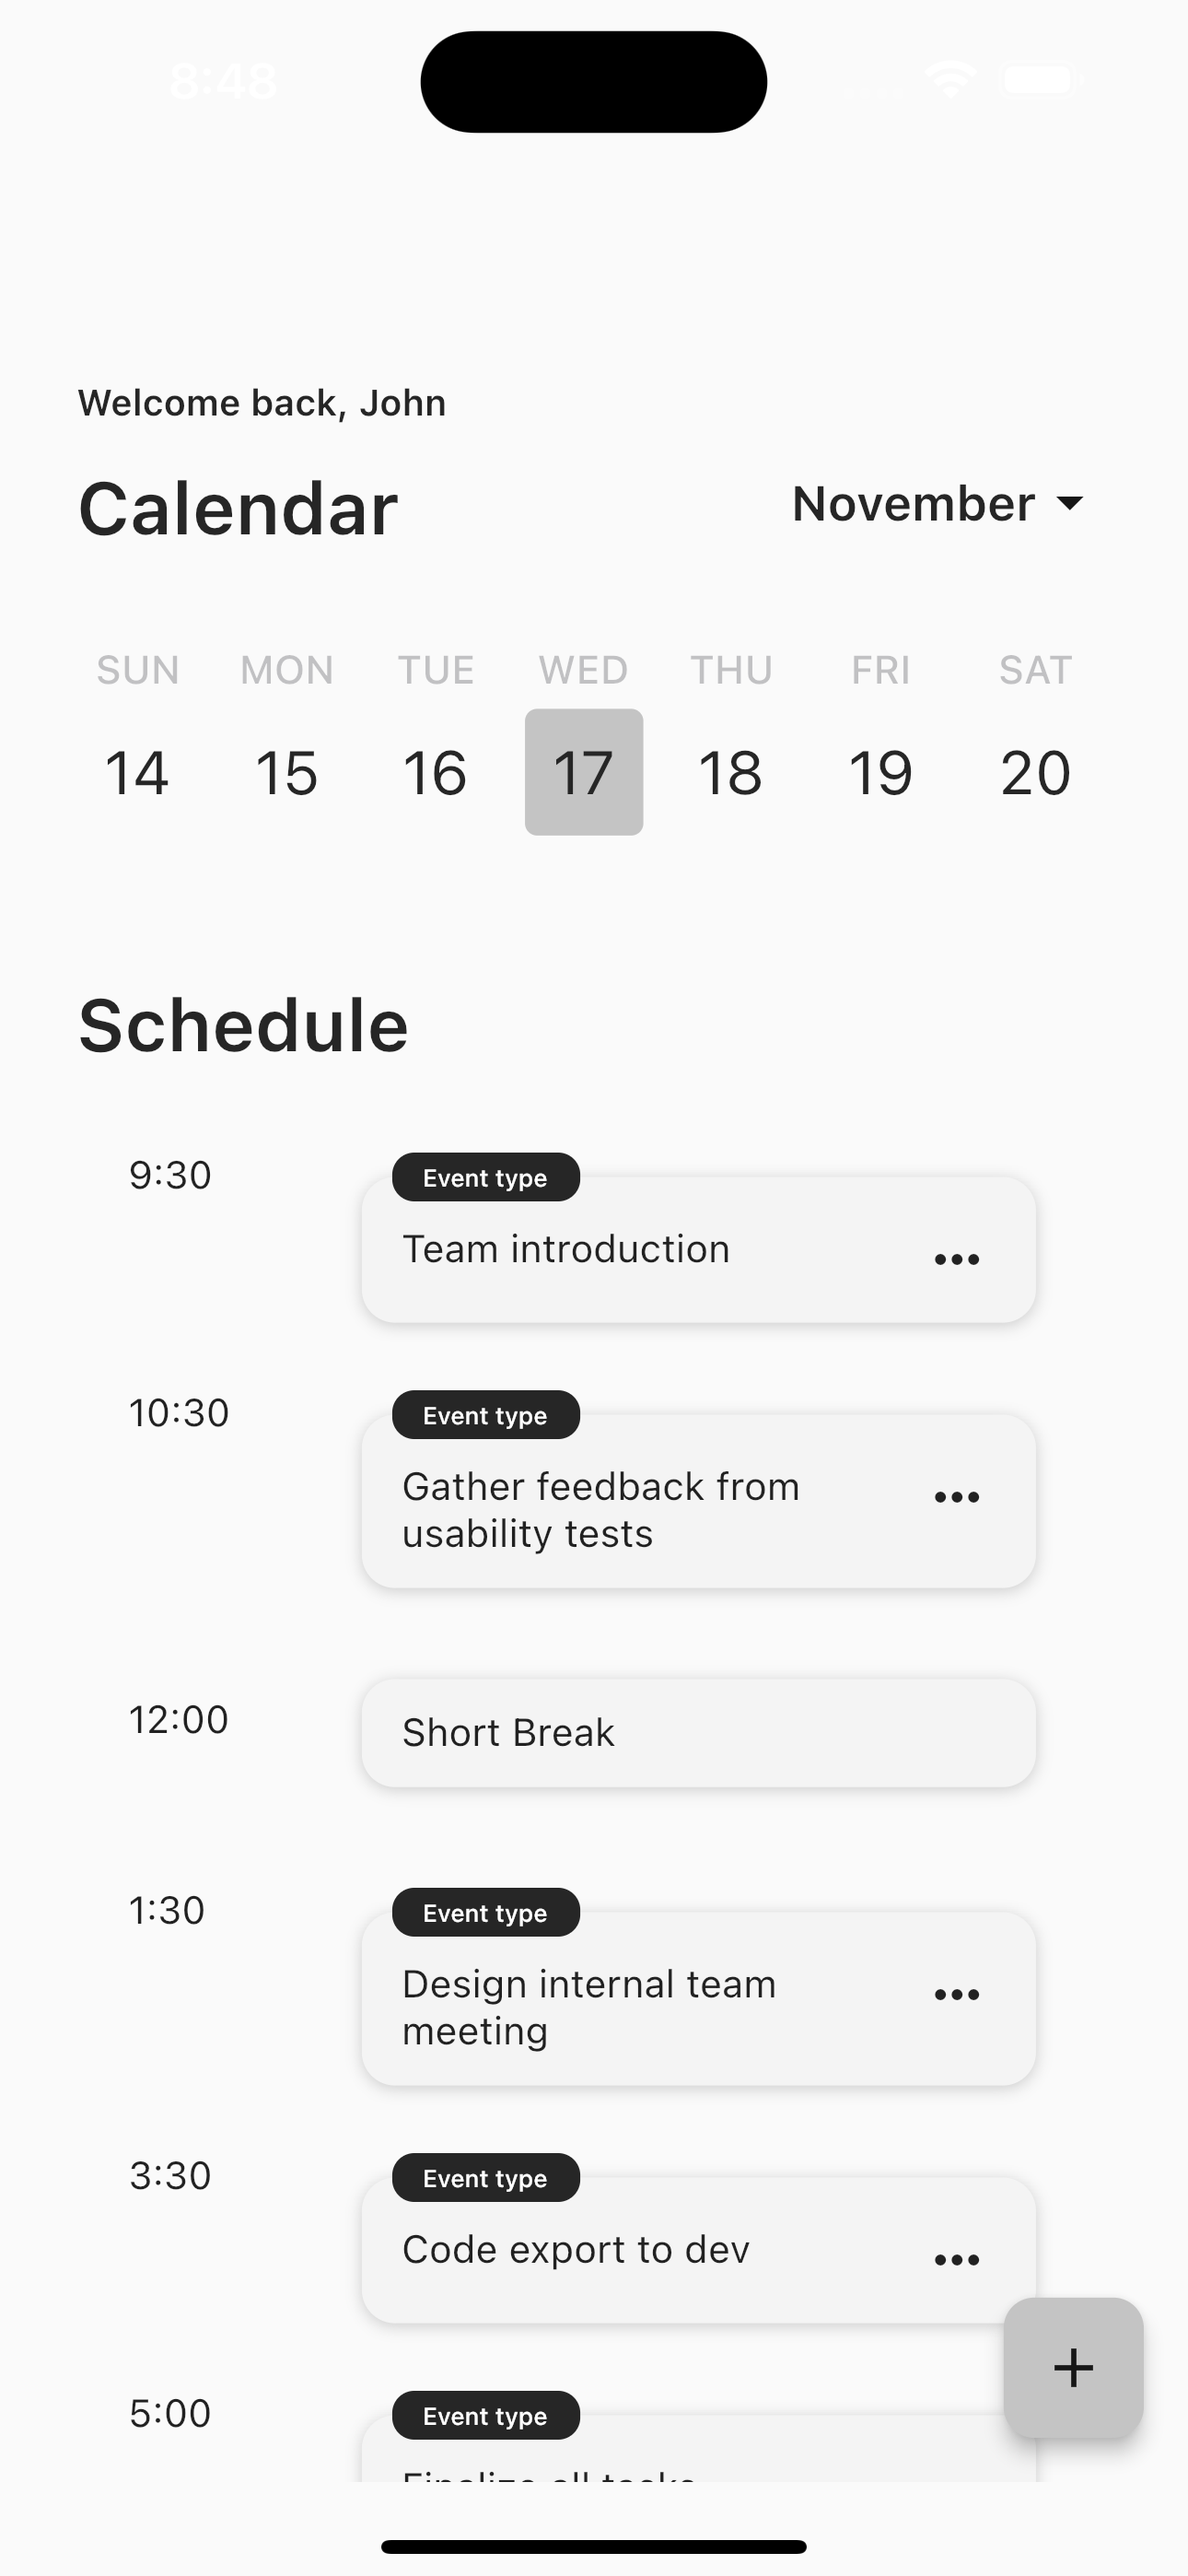
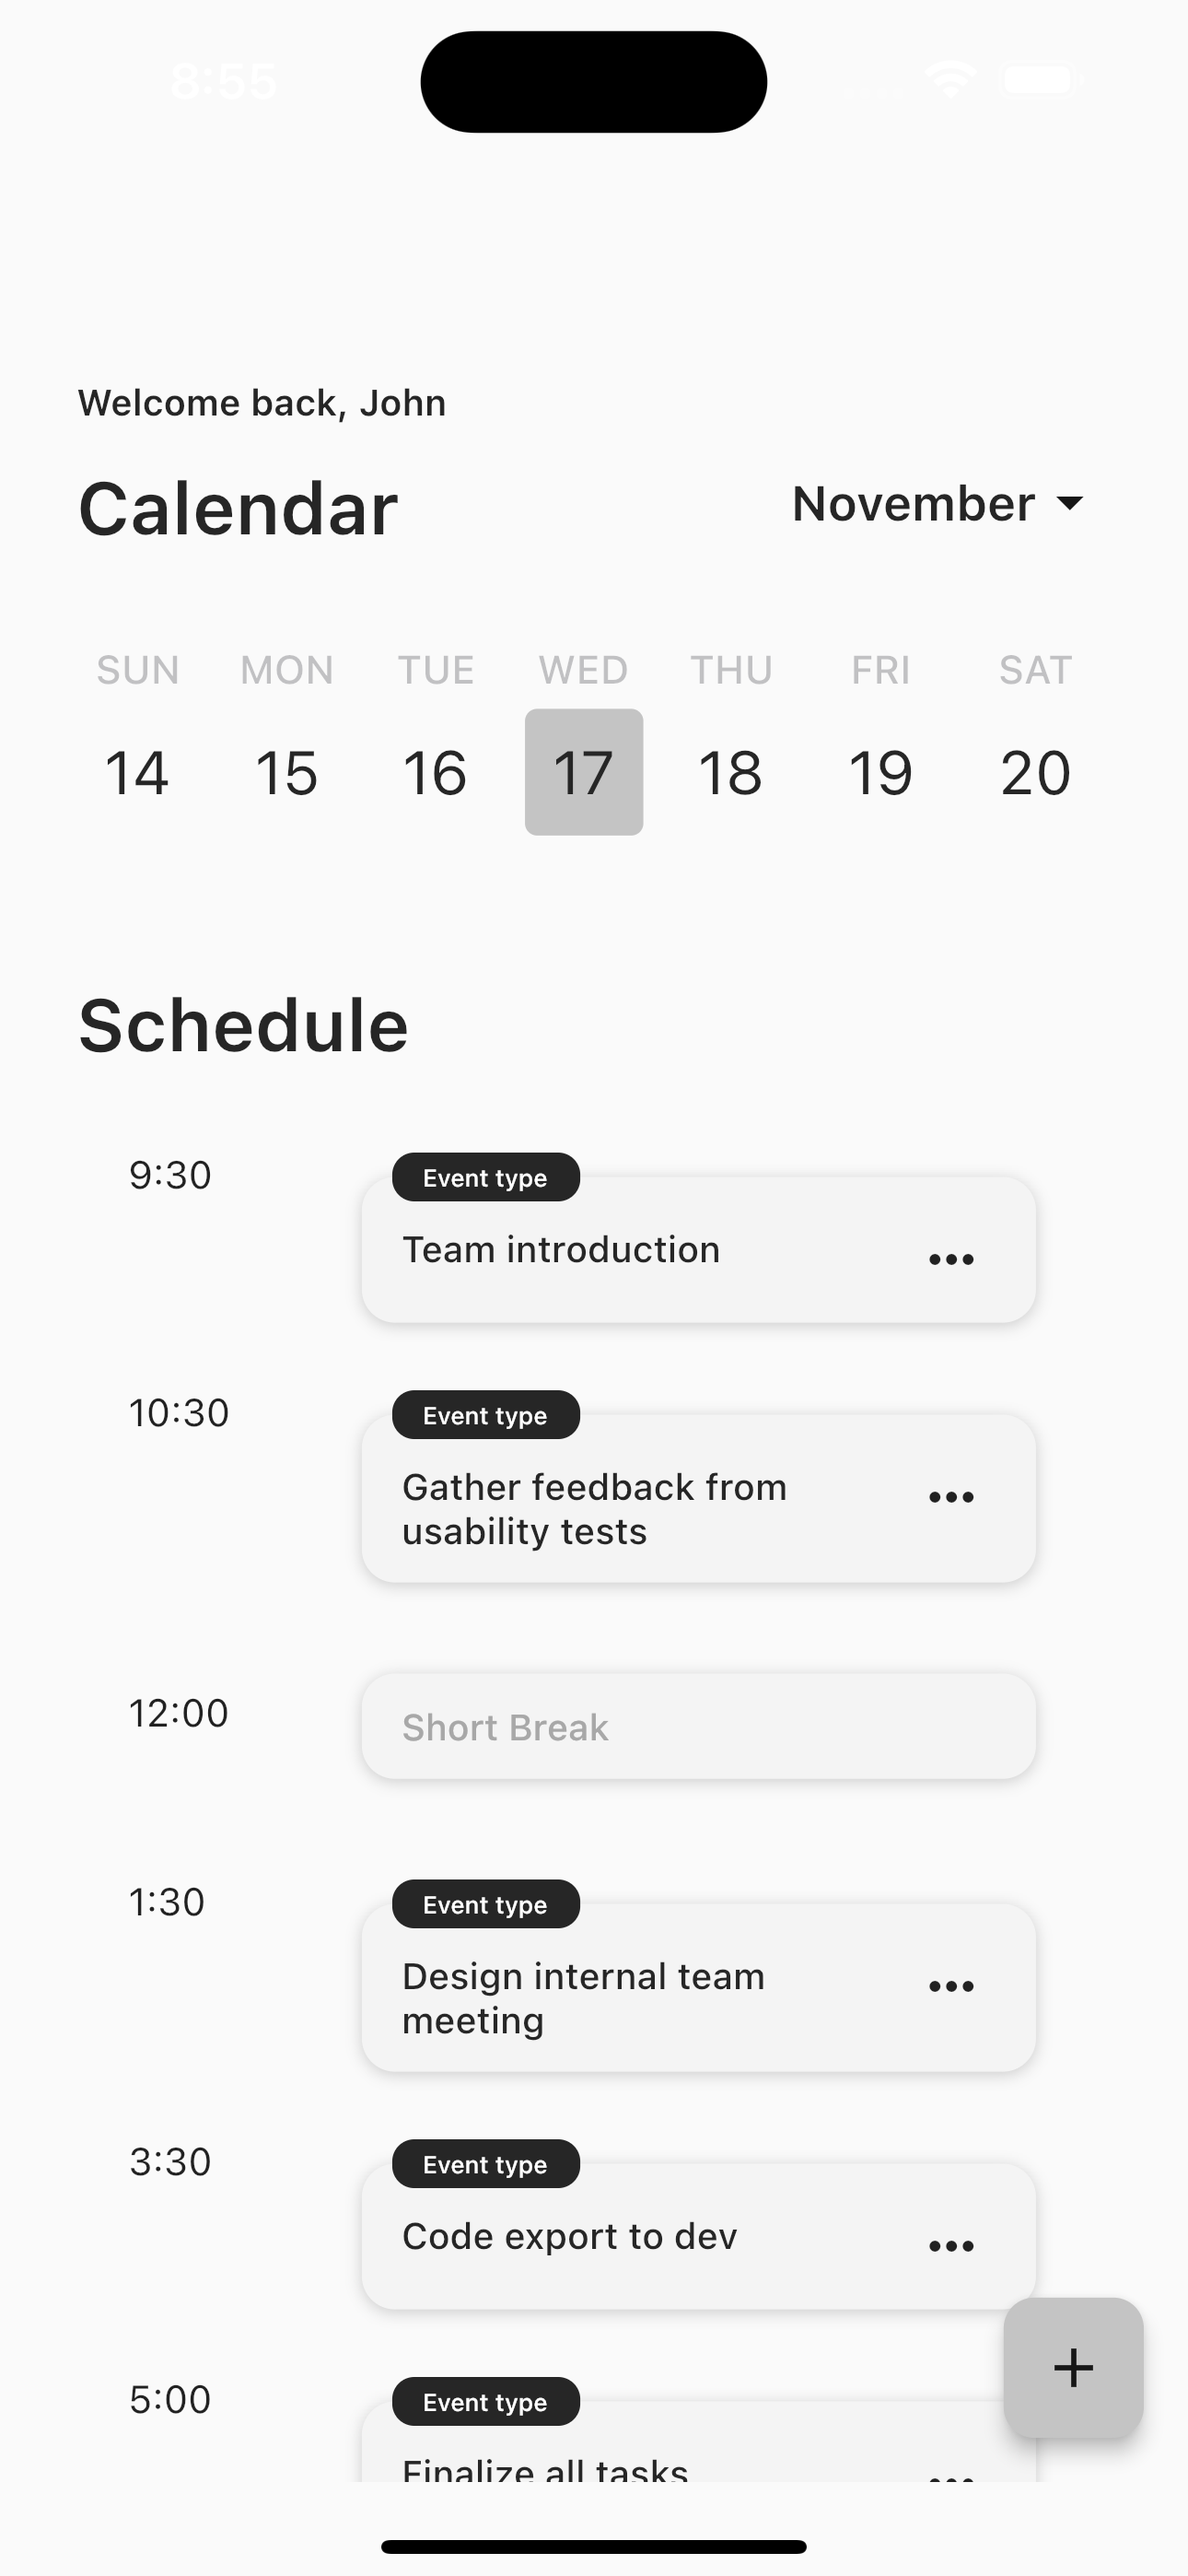
Update text style

diff --git a/lib/src/mobile_ui/23/widget/schedule_list.dart b/lib/src/mobile_ui/23/widget/schedule_list.dart
@@ -47,9 +47,22 @@ class ScheduleList extends StatelessWidget {
                         crossAxisAlignment: CrossAxisAlignment.start,
                         children: [
                           Expanded(
-                            child: Text(Pg23ModelItems.loadItems(context)[index].title),
+                            child: Text(
+                              Pg23ModelItems.loadItems(context)[index].title,
+                              style: TextStyle(
+                                color: Pg23ModelItems.loadItems(context)[index].type == null
+                                    ? Color(0xffA8A8A8)
+                                    : Color(0xff262626),
+                                fontWeight: FontWeight.w500,
+                                fontSize: 12.sp,
+                              ),
+                            ),
                           ),
-                          if (Pg23ModelItems.loadItems(context)[index].type != null) Icon(Icons.more_horiz)
+                          if (Pg23ModelItems.loadItems(context)[index].type != null)
+                            Padding(
+                              padding: EdgeInsets.symmetric(horizontal: 2.0),
+                              child: Icon(Icons.more_horiz),
+                            )
                         ],
                       ),
                     ),
